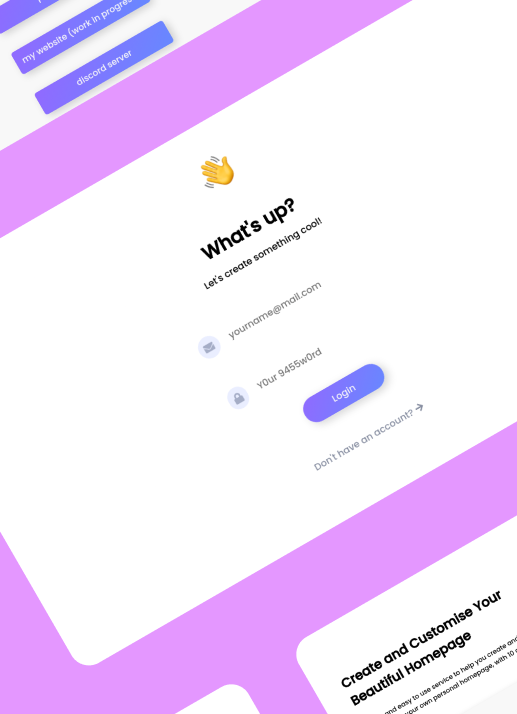
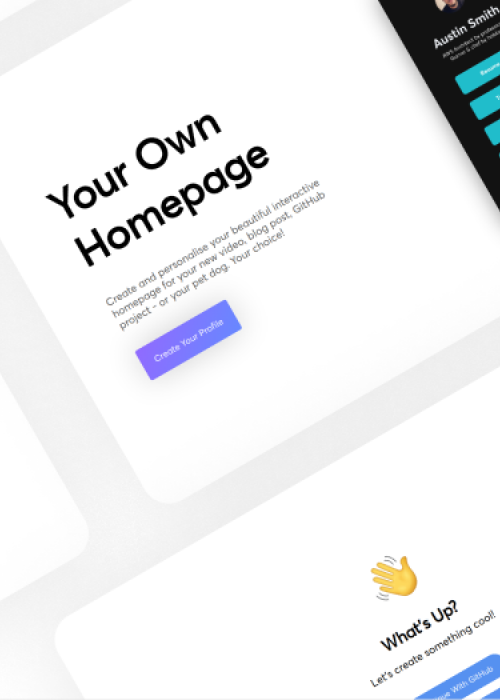
Added new Debutur case study

diff --git a/components/Work/Work.tsx b/components/Work/Work.tsx
@@ -33,9 +33,9 @@ const AboutComponent: React.FC = () => {
       title: 'Debutur',
       image: Debutur,
       description: 'Easily create, and personalise your portfolio',
-      skills: 'TypeScript Node Express MongoDB',
+      skills: 'TypeScript Next.js Prisma MongoDB',
       github: 'debutur',
-      link: 'debutur.herokuapp.com',
+      link: 'dbtr.vercel.app',
     },
     {
       title: 'SnipBin',

diff --git a/studies/debutur.md b/studies/debutur.md
@@ -1,36 +1,32 @@
 ---
 title: 'Debutur'
 description: 'Easily create, and personalise your portfolio'
-link: 'https://debutur.herokuapp.com'
-graphic: 'https://media.discordapp.net/attachments/785862408606187528/891567820175994910/Debutur.png'
+link: 'https://dbtr.vercel.app'
+graphic: 'https://media.discordapp.net/attachments/825155185680711680/931679886412746822/Debutur.png'
 ---
 
 # The Idea
 
-Now, not everyone has enough time to build their own interactive, vibrant & responsive portfolios like I did. If we want to build something quick & easy, some options we have are [Wix](https://wix.com) - I'm sure we've all seen at least one advertisement about it on [YouTube](https://www.youtube.com/watch?v=grLR_Og45Yw). I really dislike [Wix](https://wix.com) - there's ads everywhere, and they don't let you forget for even a second that the website you're viewing is built with [Wix](https://wix.com). If you want to customise anything, be ready with your wallet. Generally, people who can't build their portfolios create a [Linkedin](https://linkedin.com) page, although, that comes with it's fair share of limitations. Which is why I decided to make [Debutur](https://debutur.herokuapp.com). I wanted to create an easy way for people to link their different accounts in a single page, without having to write a line of code.
+So, during the [MongoDB x DEV Atlas Hackathon](https://dev.to/devteam/announcing-the-mongodb-atlas-hackathon-on-dev-4b6m), I was working on another project of mines, [Tastify](https://tastify.vercel.app). However, when I went to try and deploy this project, I found out that the [Spotify Web API](https://developer.spotify.com) didn't allow user authentication with [Spotify](https://spotify.com) unless you explicitly ask for a quota extension request. In their quota extension request policy, they state that they do not grant quota extensions to hobby projects.
+
+With little time on my hands, I came up with the idea of [Debutur](https://debutur.vercel.app). Now, not everyone has enough time to build their own interactive, vibrant & responsive portfolios like I did. If we want to build something quick and easy, some options we have are [Wix](https://wix.com) - I'm sure we've all seen at least one advertisement about it on [YouTube](https://www.youtube.com/watch?v=grLR_Og45Yw). I really dislike [Wix](https://wix.com) - there's ads everywhere, and they don't let you forget for even a second that the website you're viewing is built with [Wix](https://wix.com). If you want to customise anything, be ready with your wallet. Generally, people who can't build their portfolios create a [Linkedin](https://linkedin.com) page, although, that comes with it's fair share of limitations. Which is why I decided to make [Debutur](https://debutur.herokuapp.com). I wanted to create an easy way for people to link their different accounts in a single page, without having to write a line of code.
 
 # User Interface
 
-In this project, I wanted to make the UI look clean, cute & appealing to users. 
+In this project, I wanted to make the UI look clean, and make use of animations.
 
-I decided to use a "cute" sans-serif font, settling for [Poppins](https://github.com/itfoundry/Poppins) by [Indian Type Foundry](https://www.indiantypefoundry.com/). I really love the cute look of the characters, & it's readable at the same time.
+I decided to use a minimal and clean sans-serif font, settling for [Averta](https://thedesignersfoundry.com/averta) by [The Designers Foundry](https://thedesignersfoundry.com/). I really love the minimal and clean look of the characters, and it's readable at the same time.
 
-I went with a cool looking white & purple colour scheme, using a gradient (which is mixed in with some blue) for buttons & icons. 
+I went with a casual white and sky blue themed interface, as I planned on using animations and other effects to further spice up the website. For animations, I used [Framer Motion](https://framer.com/motion) and [react-spring](https://react-spring.io/) for the homescreen parallax.
 
-I also got some sweet free 3D Illustrations from the [Sally 3D Illustration Pack](https://www.figma.com/community/file/890095002328610853) in the [Figma Community](https://www.figma.com/community/), livening up the visuals even more. 
-
-I wanted the user to be able to customise their portfolios as much as they can, so, I decided to offer 5 different colourful & vibrant themes depending on your preference. 
+This website also allows the user to customise their page with 6 different themes. For the dark theme, I took inspiration from the [Material Design Dark Theme](https://material.io/design/color/dark-theme.html) page, which has a guide on how to make an accessible and soothing dark theme. I ended up applying the same concept for the the Aqua theme, but to different colour shades. I used online images I found off of [Pintrest](https://za.pinterest.com/raffeesiddiqa04/neon-theme/) to come up with a cool and modern colour scheme. The purple theme was actually inspired by the [Shades of Purple](https://vscodethemes.com/e/ahmadawais.shades-of-purple) VSC theme, created by [Ahmad Awais](https://github.com/ahmadawais). There's a cool website called [Nord](https://www.nordtheme.com/), which is dedicated to the artic, north-bluish colour pallete called "Nord" which helped me create the Nord theme.
 
 # Tech Stack
 
-Taking a look at thde insides of this project, as usual, I decided to build the backend with [Node.js](https://nodejs.org) as it happens to be the backend framework I'm currently most comfortable in.
+Taking a look at thde insides of this project, as usual, I decided to go serverless with the amazing [Next.js](https://nextjs.org/) with [TypeScript](https://typescriptlang.org). I also used [next-auth](https://next-auth.js.org/) for authenticating users with the [Twitter](https://next-auth.js.org/providers/twitter) and [GitHub](https://next-auth.js.org/providers/github) providers. Once users were authenticated their profiles would be stored in [MongoDB Atlas](https://mongodb.com/atlas) with the help of the powerful [Prisma ORM](https://prisma.io/). Even though I'm more of a [PostgreSQL](https://www.postgresql.org/) fan, I had to use [MongoDB Atlas](https://mongodb.com/atlas) because of the hackathon.
 
-For the web server, I decided to use [Express](https://expressjs.com). Looking at back at this now, I've become a fan of [Fastify](https://fastify.io), & plan to replace [Express](https://expressjs.com) pretty soon.
+As mentioned above, to create cool and interactive animations I used [Framer Motion](https://framer.com/motion) and [react-spring](https://react-spring.io/) for the homescreen parallax.
 
-For the user authentication, I decided to go with the amazing [Passport.js](https://passportjs.org). I decided to use the [Auth0 platform authentication strategy](https://www.passportjs.org/packages/passport-auth0), as I found it best-suited for this project.
+# Deployment
 
-Although I'm a big fan of [Next.js](https://nextjs.org), I decided to use the [EJS template engine](https://ejs.co/) as I wasn't exactly the best with [React](https://reactjs.org) at the time of making this. 
-
-# Deployment 
-
-As usual, I decided to go with [Heroku](https://heroku.com). Since this was a [Node.js](https://nodejs.org) project, I didn't want to spend anything out of my own pocket to host this application, so I decided to go with [Heroku](https://heroku.com) as it provides free Dynos for up to 2 years to host your applications.
+As this was a [Next.js](https://nextjs.org) project, I decided to use the amazing [Vercel](https://vercel.com) as it's specifically designed for it. I am a huge fan of [Vercel](https://vercel.com), and am forever greatful for their free deployment platform allowing me to deploy my app with ease.

diff --git a/studies/oponion.md b/studies/oponion.md
@@ -9,9 +9,9 @@ graphic: 'https://media.discordapp.net/attachments/785862408606187528/8915678293
 
 At school, we often do surveys & stuff in different classes. Generally, for this, we generally tend to learn towards/use [TypeForm](https://typeform.com) & [Google Forms](https://forms.google.com). [Google Forms](https://forms.google.com) is decent, & I really love [TypeForm](https://typeform.com) for it's intuitive form experience. Although, I feel like a new user has to go through a longer process - and it isn't exactly the best for creating short & fun polls. Having too much time during Summer Break, I decided to take up the project.
 
-# Planning 
+# Planning
 
-As mentioned above, I wanted to keep make it so that the user doesn't have to go through a long process to create polls. That's why, when you open [Oponion](https://oponion.vercel.app), you directly go to the poll creation form. 
+As mentioned above, I wanted to keep make it so that the user doesn't have to go through a long process to create polls. That's why, when you open [Oponion](https://oponion.vercel.app), you directly go to the poll creation form.
 
 After that, everything is rather self-explanatory. Just type a title, and add/remove options. I added a handy chart visualisation tool at the bottom to help you visualise your poll's chart. My goal with this project was to keep everything to the point, & nothing more.
 
@@ -19,7 +19,7 @@ I decided I wasn't going to create a seperate backend for this project either - 
 
 # Tech Stack
 
-For this project, I decided to go with the handy [Next.js](https://nextjs.org) & the amazing [Stitches](https://stitches.dev) CSS-in-JS library to build the frontend. 
+For this project, I decided to go with the handy [Next.js](https://nextjs.org) & the amazing [Stitches](https://stitches.dev) CSS-in-JS library to build the frontend.
 
 As usual, I used [TypeScript](https://typescriptlang.org) for it's added benefits over [JavaScript](https://developer.mozilla.org/en-US/docs/Web/JavaScript). Once you get a habit of using [TypeScript](https://typescriptlang.org) for projects, using [JavaScript](https://developer.mozilla.org/en-US/docs/Web/JavaScript) just feels weird.
 
@@ -27,6 +27,6 @@ For charts & visualisation, I was initially planning to use [Chart.js](https://c
 
 As mentioned above, I wanted to try out something new for the database this time. This was the first time that I was building a "fullstack" application without a backend, so I decided to go with the [Firebase Realtime Database](https://firebase.google.com/products/realtime-database), which easily integrated with my project & worked like a charm!
 
-# Deployment 
+# Deployment
 
-For deploying this application, I used [Vercel](https://vercel.com). I absolutely LOVE everything about [Vercel](https://vercel.com), and since I built my application with Next.js](https://nextjs.org), [Vercel](https://vercel.com) was the obvious choice for deploying. I love how easy [Vercel](https://vercel.com) has made my life - free & automated deployments, amazing navigation & control, along with automated deployments with [GitHub](https://github.com) 
+For deploying this application, I used [Vercel](https://vercel.com). I absolutely LOVE everything about [Vercel](https://vercel.com), and since I built my application with [Next.js](https://nextjs.org), [Vercel](https://vercel.com) was the obvious choice for deploying. I love how easy [Vercel](https://vercel.com) has made my life - free & automated deployments, amazing navigation & control, along with automated deployments with [GitHub](https://github.com)
